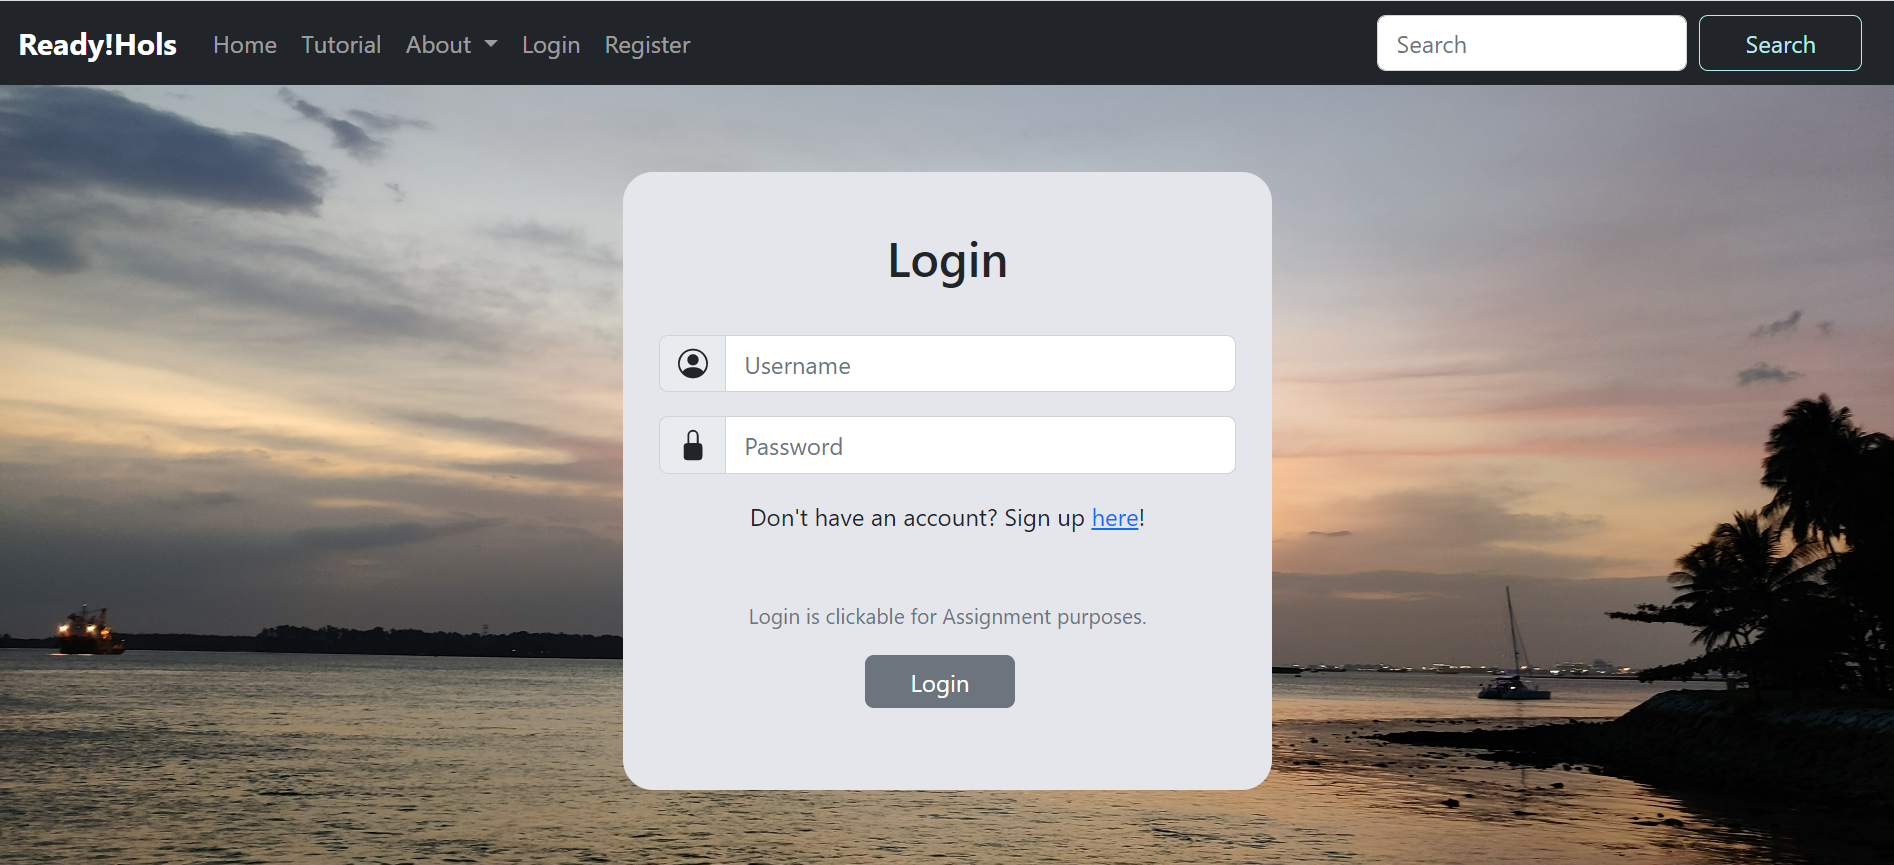
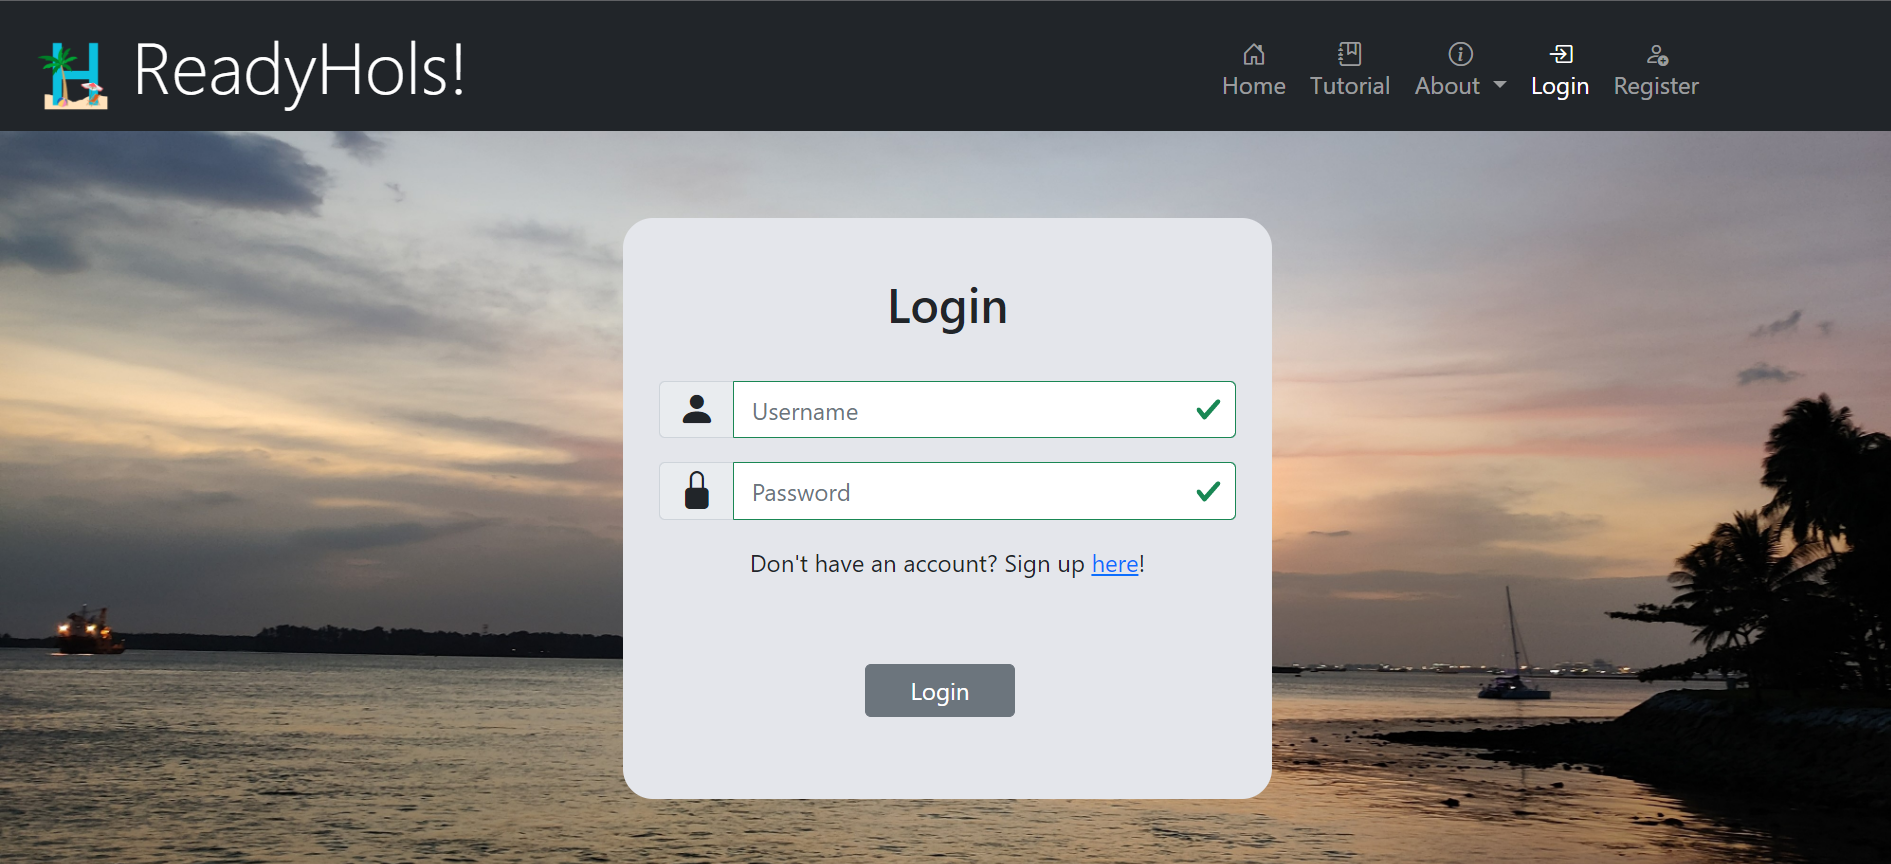
Login Updates

diff --git a/templates/n-login/sign-up.html b/templates/n-login/sign-up.html
@@ -25,22 +25,45 @@
         <div class="row justify-content-center">
           <div class="col-md-6 col-sm-12">
             <div class="sign-up-container-left">
+                <label for="inputUsername" class="form-label">Username</label><br>
 
-                  <div class="mb-3">
-                      <label for="inputUsername" class="form-label">Username</label>
-                      <input type="username" class="form-control" name="inputUsername" id="inputUsername" aria-describedby="emailHelp">
+                    <div class="input-group mb-3">
+                        <div class="input-group-prepend">
+                            <span class="input-group-text" style="border-top-right-radius: 0px;
+                            border-bottom-right-radius: 0px; background-color:#cfcfcf;" id="username_svg">
+                                <i class="bi bi-person-fill" style="font-size:20px; padding:2.5px;"></i>
+                            </span>
+                        </div>
+                        <input type="text" class="form-control" name="inputUsername" id="inputUsername" aria-describedby="emailHelp">
                     </div>
-                  <div class="mb-3">
-                    <label for="inputEmail" class="form-label">Email address</label>
-                    <input type="email" class="form-control" name="inputEmail" id="inputEmail" aria-describedby="emailHelp">
-                  </div>
-                  <div class="mb-3">
-                    <label for="inputPassword" class="form-label">Password</label>
+
+                <label for="inputEmail" class="form-label">Email address</label>
+
+                  <div class="input-group mb-3">
+                        <div class="input-group-prepend">
+                            <span class="input-group-text" style="border-top-right-radius: 0px;
+                            border-bottom-right-radius: 0px; background-color:#cfcfcf;" id="email_svg">
+                                <i class="bi bi-envelope" style="font-size:20px; padding:2.5px;"></i>
+                            </span>
+                        </div>
+                      <input type="text" class="form-control" name="inputEmail" id="inputEmail" aria-describedby="emailHelp">
+                   </div>
+
+                <label for="inputPassword" class="form-label">Password</label>
+
+                  <div class="input-group mb-3">
+                        <div class="input-group-prepend">
+                            <span class="input-group-text" style="border-top-right-radius: 0px;
+                            border-bottom-right-radius: 0px; background-color:#cfcfcf;" id="password_svg">
+                                <i class="bi bi-lock-fill" style="font-size:20px; padding:2.5px;"></i>
+                            </span>
+                        </div>
                     <input type="password" name="inputPassword" id="inputPassword" class="form-control" aria-describedby="passwordHelpBlock">
                       <div id="passwordHelpBlock" class="form-text">
                           Your password must be 8-20 characters long, contain letters and numbers, and must not contain spaces, special characters, or emoji.
                       </div>
-                  </div>
+                   </div>
+
                   <p>Already have an account? Login <a href="{{url_for('login')}}">here</a> instead.</p>
                   {% with errors = get_flashed_messages(category_filter=["error"]) %}
                   {% if errors %}

diff --git a/templates/n-login/login.html b/templates/n-login/login.html
@@ -49,25 +49,20 @@
                 <form action="{{url_for('login')}}" method="post" class="was-validated">
                     <div class="input-group mb-3">
                         <div class="input-group-prepend">
-                    <span class="input-group-text" style="border-top-right-radius: 0px;
-                    border-bottom-right-radius: 0px;" id="username_svg">
-                    <svg xmlns="http://www.w3.org/2000/svg" width="20" height="25" fill="currentColor" class="bi bi-person-circle" viewBox="0 0 16 16">
-                      <path d="M11 6a3 3 0 1 1-6 0 3 3 0 0 1 6 0z"/>
-                      <path fill-rule="evenodd" d="M0 8a8 8 0 1 1 16 0A8 8 0 0 1 0 8zm8-7a7 7 0 0 0-5.468 11.37C3.242 11.226 4.805 10 8 10s4.757 1.225 5.468 2.37A7 7 0 0 0 8 1z"/>
-                    </svg>
-                    </span>
+                            <span class="input-group-text" style="border-top-right-radius: 0px;
+                            border-bottom-right-radius: 0px;" id="username_svg">
+                                <i class="bi bi-person-fill" style="font-size:25px;"></i>
+                            </span>
                         </div>
                         <input type="text" class="form-control" name="loginUsername" id="loginUsername" placeholder="Username" aria-label="Username" aria-describedby="basic-addon1">
                     </div>
 
                     <div class="input-group mb-3">
                         <div class="input-group-prepend">
-                    <span class="input-group-text" style="border-top-right-radius: 0px;
-                    border-bottom-right-radius: 0px;" id="password_svg">
-                    <svg xmlns="http://www.w3.org/2000/svg" width="20" height="25" fill="currentColor" class="bi bi-lock-fill" viewBox="0 0 16 16">
-                      <path d="M8 1a2 2 0 0 1 2 2v4H6V3a2 2 0 0 1 2-2zm3 6V3a3 3 0 0 0-6 0v4a2 2 0 0 0-2 2v5a2 2 0 0 0 2 2h6a2 2 0 0 0 2-2V9a2 2 0 0 0-2-2z"/>
-                    </svg>
-                    </span>
+                            <span class="input-group-text" style="border-top-right-radius: 0px;
+                            border-bottom-right-radius: 0px;" id="password_svg">
+                                <i class="bi bi-lock-fill" style="font-size:25px;"></i>
+                            </span>
                         </div>
                         <input type="password" class="form-control" name="loginPassword" id="loginPassword" placeholder="Password" aria-label="Password" aria-describedby="basic-addon1">
                     </div>
